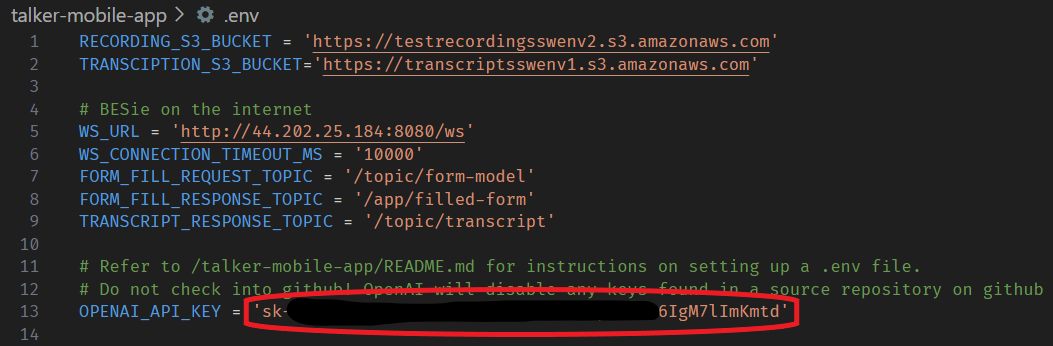
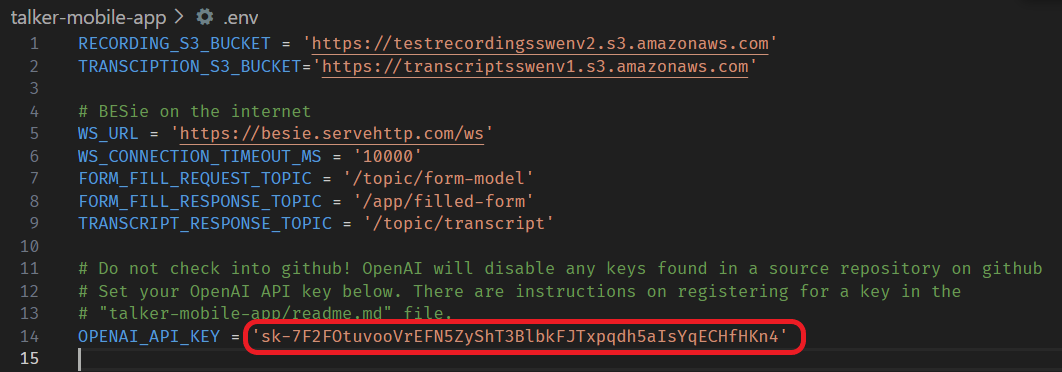
Updates to https besie

diff --git a/form-filler-extension/js/utils.js b/form-filler-extension/js/utils.js
@@ -13,7 +13,7 @@ export async function getActiveTabURL() {
 }
 
 const ServiceURL_DEV = "http://localhost:8080/ws";
-const serviceUrl_PROD = "http://44.202.25.184:8080/ws";
+const serviceUrl_PROD = "https://besie.servehttp.com/ws";
 const serviceUrl = ServiceURL_DEV;
 
 var stompClient;
